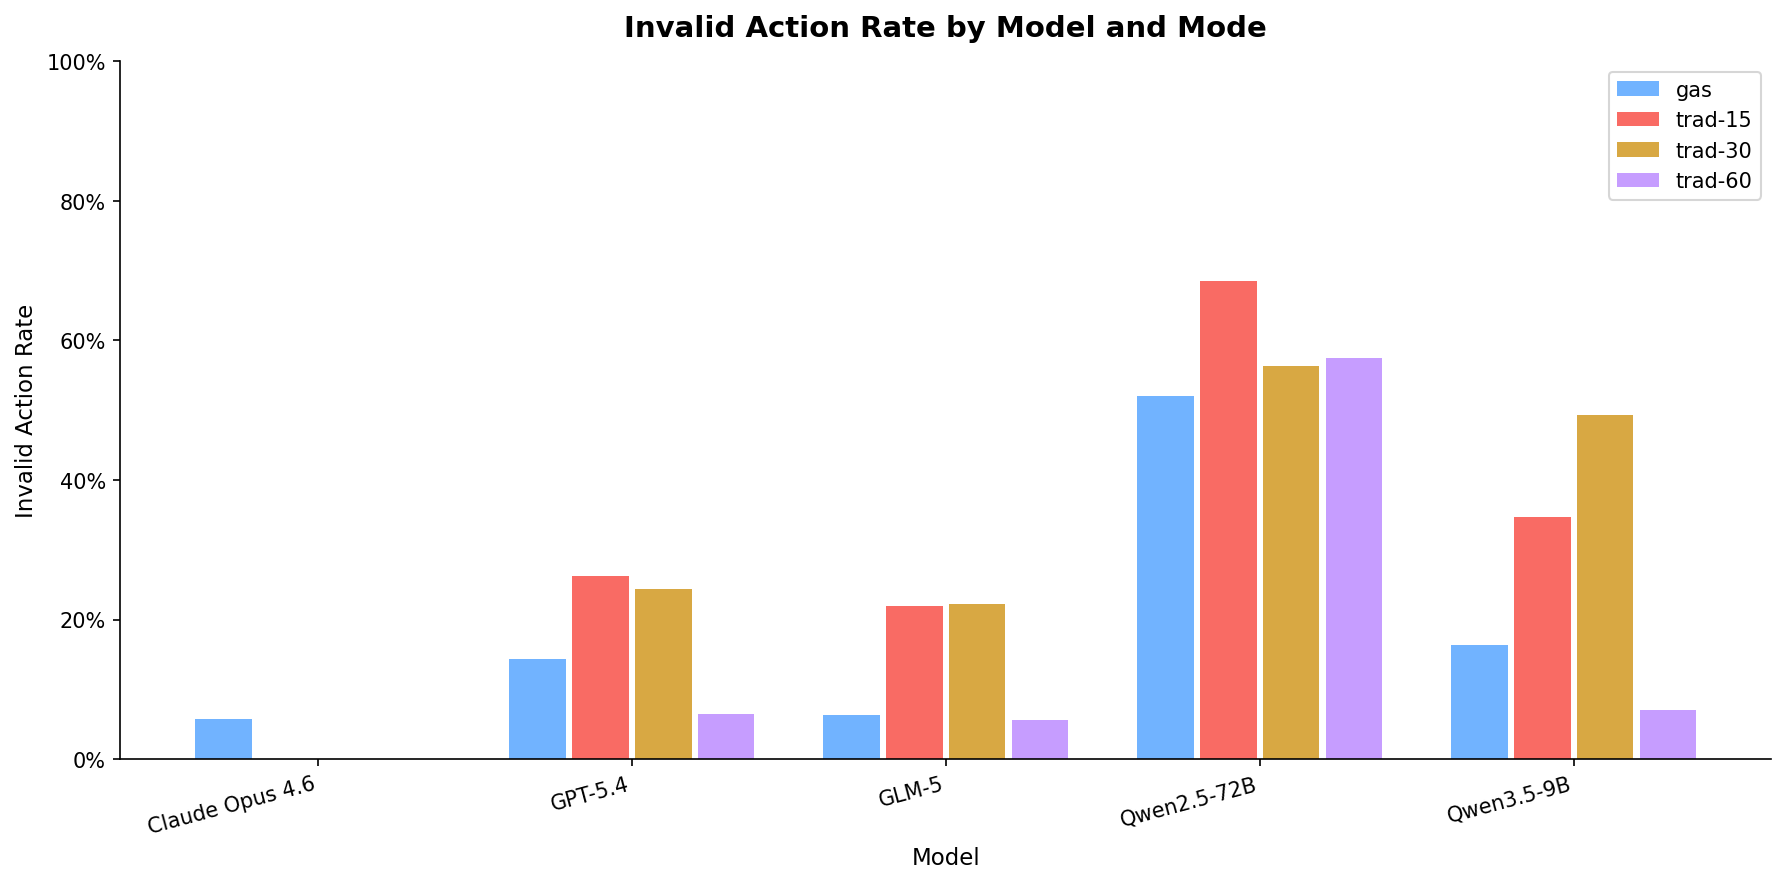
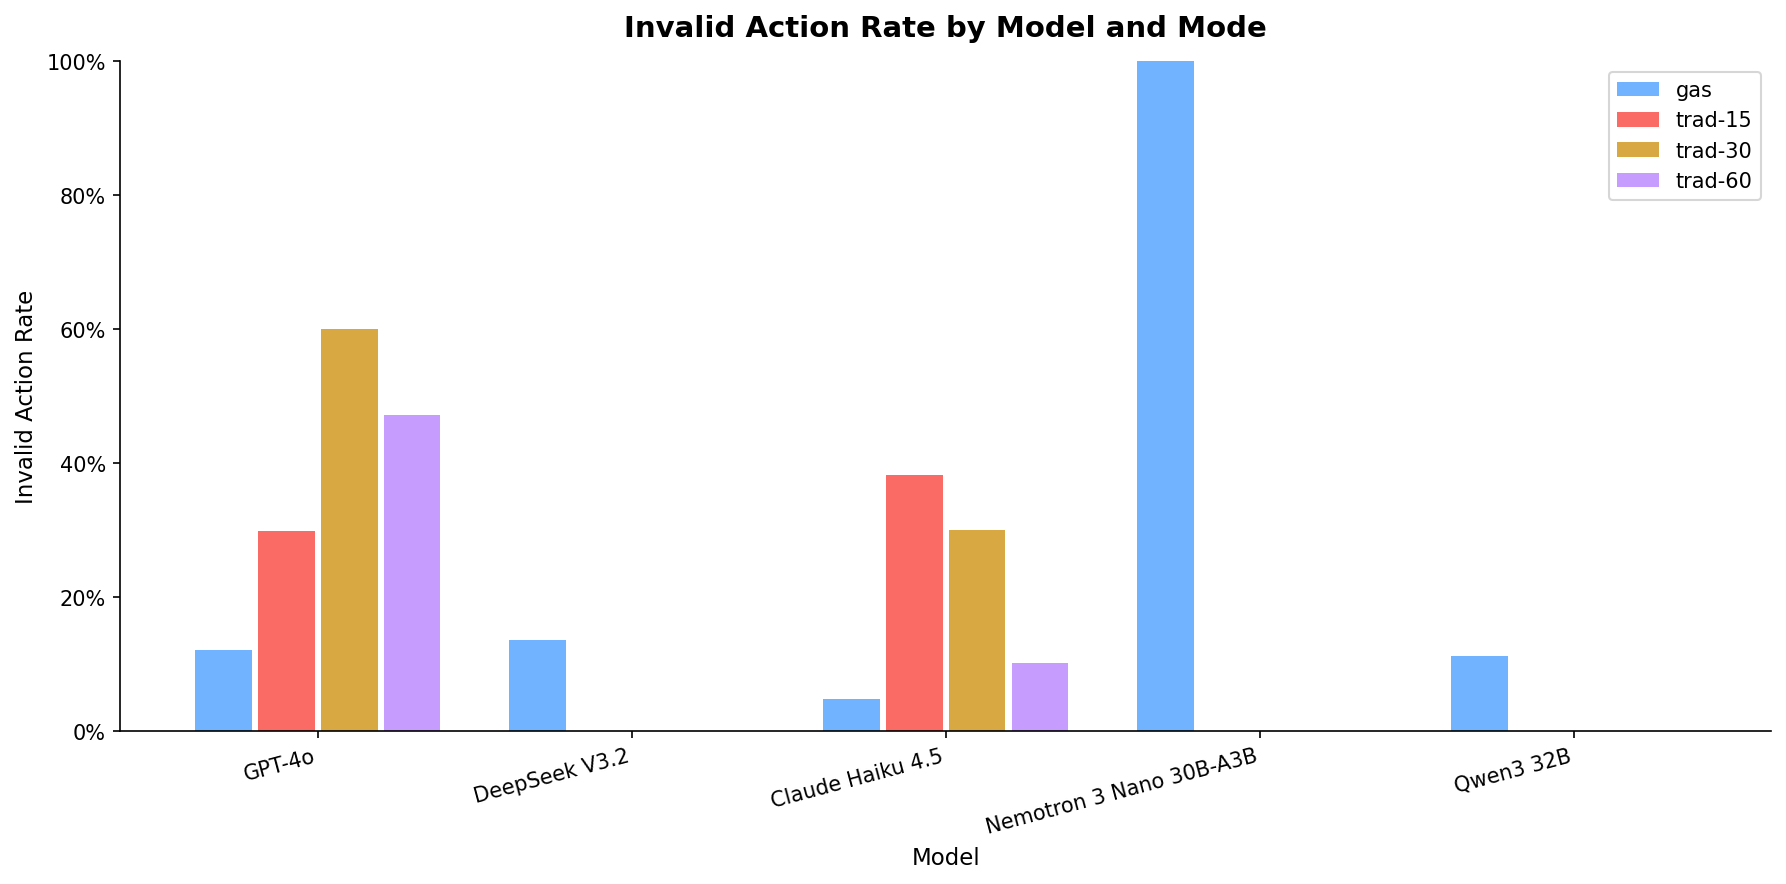
feat(eval): run updated model catalog and regenerate summary
Add eval runs for GPT-4o, Claude Haiku 4.5, DeepSeek V3.2, Qwen3 32B,
and Nemotron 3 Nano. Remove Llama from provider config and charts.
Regenerate all charts and HTML/MD summaries with latest results.

Haiku leads at 95% GAS pass rate / 4.8% invalid. Three models cluster
at 85%. Nemotron cannot produce valid tool calls (100% invalid).

diff --git a/eval/harness/providers.py b/eval/harness/providers.py
@@ -16,10 +16,6 @@ DEEPINFRA_MODELS: tuple[tuple[str, str], ...] = (
     ("GLM-5 (DeepInfra)", os.environ.get("DEEPINFRA_MODEL_GLM_5", "zai-org/GLM-5")),
     ("DeepSeek V3.2 (DeepInfra)", os.environ.get("DEEPINFRA_MODEL_DEEPSEEK_V3_2", "deepseek-ai/DeepSeek-V3.2")),
     (
-        "Llama 4 Scout 17B (DeepInfra)",
-        os.environ.get("DEEPINFRA_MODEL_LLAMA_4_SCOUT_17B", "meta-llama/Llama-4-Scout-17B-16E-Instruct"),
-    ),
-    (
         "Nemotron 3 Nano 30B-A3B (DeepInfra)",
         os.environ.get("DEEPINFRA_MODEL_NEMOTRON_3_NANO_30B_A3B", "nvidia/Nemotron-3-Nano-30B-A3B-Instruct"),
     ),
@@ -40,7 +36,6 @@ NAME_ALIASES = {
     "glm-5": "GLM-5 (DeepInfra)",
     "deepseek-v3.2": "DeepSeek V3.2 (DeepInfra)",
     "claude-haiku-4.5": "Claude Haiku 4.5 (Anthropic)",
-    "llama-4-scout-17b": "Llama 4 Scout 17B (DeepInfra)",
     "nemotron-3-nano-30b-a3b": "Nemotron 3 Nano 30B-A3B (DeepInfra)",
     "qwen3-32b": "Qwen3 32B (DeepInfra)",
 }

diff --git a/eval/analysis/charts.py b/eval/analysis/charts.py
@@ -27,7 +27,6 @@ MODEL_ORDER = [
     "GLM-5 (DeepInfra)",
     "DeepSeek V3.2 (DeepInfra)",
     "Claude Haiku 4.5 (Anthropic)",
-    "Llama 4 Scout 17B (DeepInfra)",
     "Nemotron 3 Nano 30B-A3B (DeepInfra)",
     "Qwen3 32B (DeepInfra)",
 ]
@@ -36,7 +35,6 @@ MODEL_LABELS = {
     "GLM-5 (DeepInfra)": "GLM-5",
     "DeepSeek V3.2 (DeepInfra)": "DeepSeek V3.2",
     "Claude Haiku 4.5 (Anthropic)": "Claude Haiku 4.5",
-    "Llama 4 Scout 17B (DeepInfra)": "Llama 4 Scout 17B",
     "Nemotron 3 Nano 30B-A3B (DeepInfra)": "Nemotron 3 Nano 30B-A3B",
     "Qwen3 32B (DeepInfra)": "Qwen3 32B",
 }
@@ -45,7 +43,6 @@ MODEL_COLORS = {
     "GLM-5 (DeepInfra)": "#16a34a",
     "DeepSeek V3.2 (DeepInfra)": "#2563eb",
     "Claude Haiku 4.5 (Anthropic)": "#f59e0b",
-    "Llama 4 Scout 17B (DeepInfra)": "#9333ea",
     "Nemotron 3 Nano 30B-A3B (DeepInfra)": "#dc2626",
     "Qwen3 32B (DeepInfra)": "#0891b2",
 }
